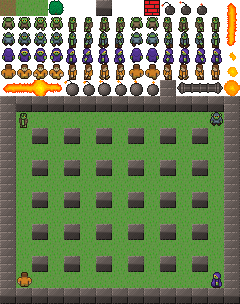
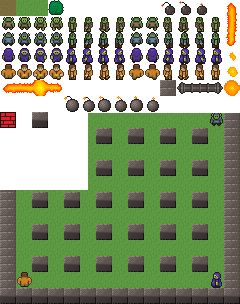
fixed the 1 pixel offset, animation now looks clean on the edges

Changed region(s): [[0.0, 0.2664, 1.0, 0.6513], [0.5833, 0.0, 0.6708, 0.0592], [0.3792, 0.0, 0.4667, 0.0592]]

diff --git a/src/javascript/animation.js b/src/javascript/animation.js
@@ -29,9 +29,9 @@ class Character {
 
 		//up
 		this.direction[0] = new Array(3);
-		this.direction[0][0] = new AnimationFrame(0, y + 1, dim_x, dim_y); //idle
-		this.direction[0][1] = new AnimationFrame(8 * dim_x, y + 1, dim_x, dim_y); //animation up #1
-		this.direction[0][2] = new AnimationFrame(9 * dim_x, y + 1, dim_x, dim_y); //animation up #
+		this.direction[0][0] = new AnimationFrame(0, y, dim_x, dim_y); //idle
+		this.direction[0][1] = new AnimationFrame(8 * dim_x, y, dim_x, dim_y); //animation up #1
+		this.direction[0][2] = new AnimationFrame(9 * dim_x, y, dim_x, dim_y); //animation up #
 
 		//down
 		this.direction[1] = new Array(3);
@@ -41,10 +41,10 @@ class Character {
 
 		//right
 		this.direction[2] = new Array(4);
-		this.direction[2][0] = new AnimationFrame(4 * dim_x, y + 1, dim_x, dim_y); //idle
-		this.direction[2][1] = new AnimationFrame(5 * dim_x, y + 1, dim_x, dim_y); //animation right #1
-		this.direction[2][2] = new AnimationFrame(6 * dim_x, y + 1, dim_x, dim_y); //animation right #2
-		this.direction[2][3] = new AnimationFrame(7 * dim_x, y + 1, dim_x, dim_y); //animation right #3
+		this.direction[2][0] = new AnimationFrame(4 * dim_x, y, dim_x, dim_y); //idle
+		this.direction[2][1] = new AnimationFrame(5 * dim_x, y, dim_x, dim_y); //animation right #1
+		this.direction[2][2] = new AnimationFrame(6 * dim_x, y, dim_x, dim_y); //animation right #2
+		this.direction[2][3] = new AnimationFrame(7 * dim_x, y, dim_x, dim_y); //animation right #3
 
 		//left
 		this.direction[3] = new Array(4);

diff --git a/src/javascript/board.js b/src/javascript/board.js
@@ -12,9 +12,9 @@ class tile {
 // tileTypes: enum for all types of tile that can exist on the gameboard
 var tileTypes = Object.freeze({
     //parameter list: (breakable, passable, x, y)
-    "wall": new tile(false, false, 96, 0),
+    "wall": new tile(false, false, 32, 112),
     "empty": new tile(false, true, 32, 0),
-    "breakableWall": new tile(true, false, 144, 0)
+    "breakableWall": new tile(true, false, 0, 112)
 });
 
 

diff --git a/src/javascript/player.js b/src/javascript/player.js
@@ -104,7 +104,7 @@ class Bomb {
 
         this.animation = [];
         for (let i = 4; i < 10; i++) {
-            this.animation.push(new AnimationFrame(i * 16, 5 * 16, 16, 16))
+            this.animation.push(new AnimationFrame(i * 16, 6 * 16, 16, 16))
         }
 
         for (let i = 0; i < 3; i++) {

diff --git a/src/javascript/bomberman.js b/src/javascript/bomberman.js
@@ -44,7 +44,7 @@ function startGame() {
 	//startView.setAttribute("visibility", "hidden");
 	//TODO: init player, init monsters
 
-	board = new gameboard(boardWidth, boardHeight, 4, 10, 0.8);
+	board = new gameboard(boardWidth, boardHeight, 4, 10, 0);
 
     //printAllEnemiesStats(board.enemies);
 
